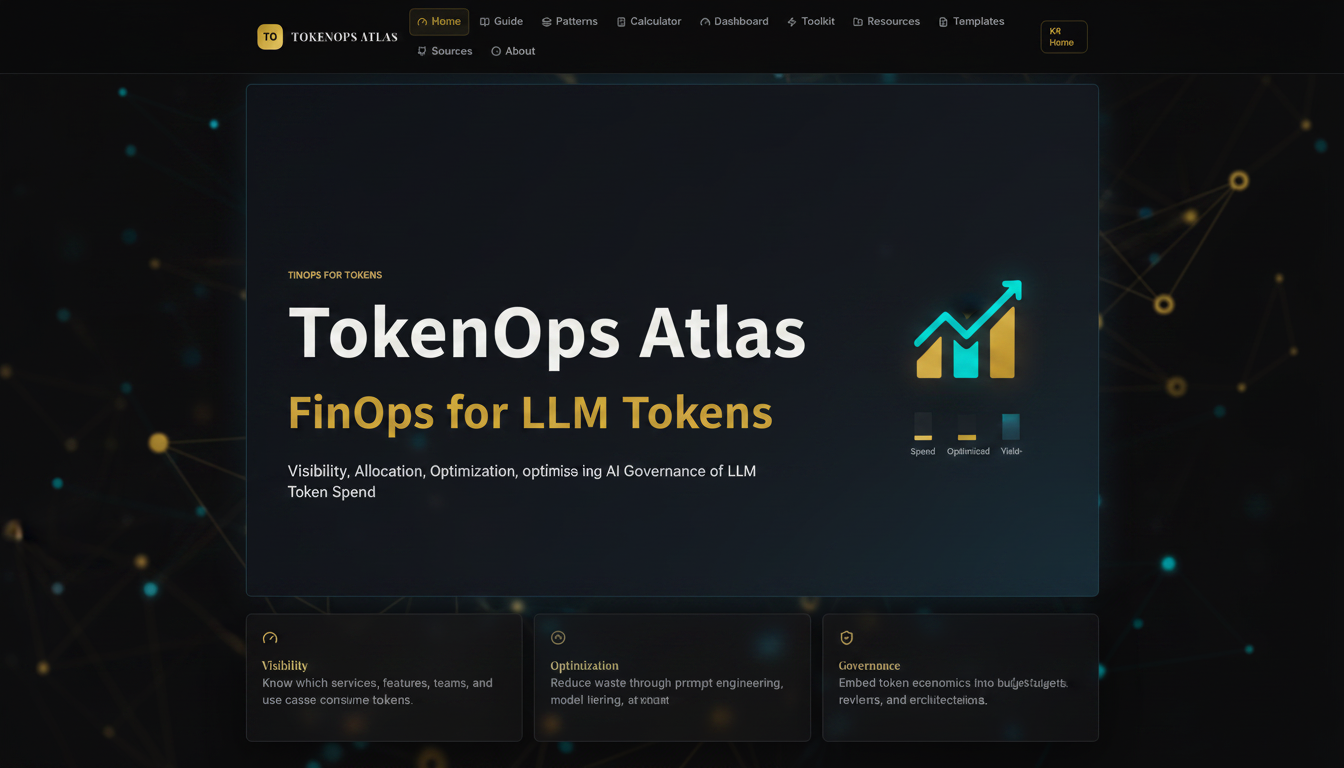
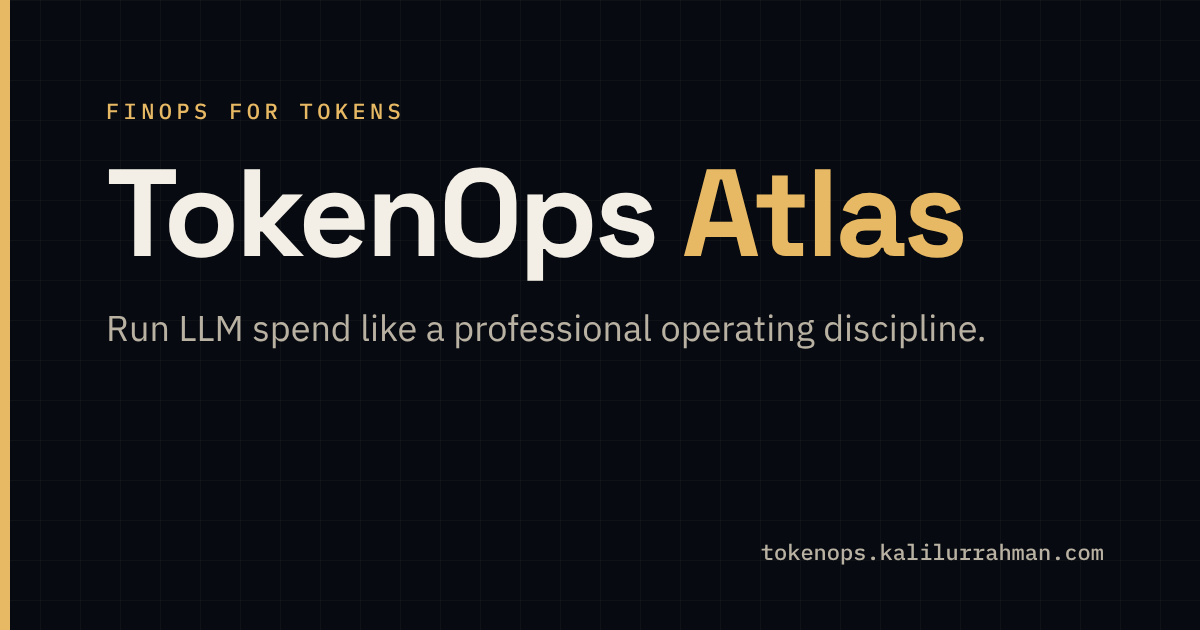
A clean share card (2.13.4) (#56)
The share image was machine-generated with misspelt small print. It is
redrawn as a 1200x630 card in the site's fonts and Ledger Dark colours by
scripts/make-share-card.mjs; og:image width and height updated to match.

Claude-Session: https://claude.ai/code/session_01WAXdxhNsD33VWZEEzmKrwC

diff --git a/src/routes/__root.tsx b/src/routes/__root.tsx
@@ -98,11 +98,11 @@ export const Route = createRootRouteWithContext<{ queryClient: QueryClient }>()(
       { property: "og:type", content: "website" },
       { property: "og:site_name", content: "TokenOps Atlas" },
       { property: "og:url", content: "https://tokenops.kalilurrahman.com/" },
-      // The share image, self-hosted (public/og.png, 1344×768 PNG); it was on Lovable's upload storage.
+      // The share image, self-hosted (public/og.png, 1200×630 PNG, drawn by scripts/make-share-card.mjs).
       { property: "og:image", content: `${SITE_ORIGIN}/og.png` },
       { property: "og:image:type", content: "image/png" },
-      { property: "og:image:width", content: "1344" },
-      { property: "og:image:height", content: "768" },
+      { property: "og:image:width", content: "1200" },
+      { property: "og:image:height", content: "630" },
       { name: "twitter:card", content: "summary" },
       { name: "twitter:site", content: "@Lovable" },
       { name: "twitter:image", content: `${SITE_ORIGIN}/og.png` },

diff --git a/CHANGELOG.md b/CHANGELOG.md
@@ -1,5 +1,11 @@
 # Changelog
 
+## 2.13.4 — A clean share card (2026-11-27)
+
+### Changed
+
+- The share image (`/og.png`) is redrawn as a clean 1200×630 card: "FinOps for tokens", "TokenOps Atlas", the home page's own line "Run LLM spend like a professional operating discipline." and the site address, in the site's fonts and Ledger Dark colours. The picture it replaces was machine-generated and its small print was misspelt ("TINOPS FOR TOKENS", "prmmpt", "Governonce"). `scripts/make-share-card.mjs` draws the card, so it can be regenerated; `og:image:width` and `og:image:height` now say 1200 and 630. No title, description or other share text changed.
+
 ## 2.13.3 — Canonical links and a self-hosted share image (2026-11-27)
 
 ### Changed
